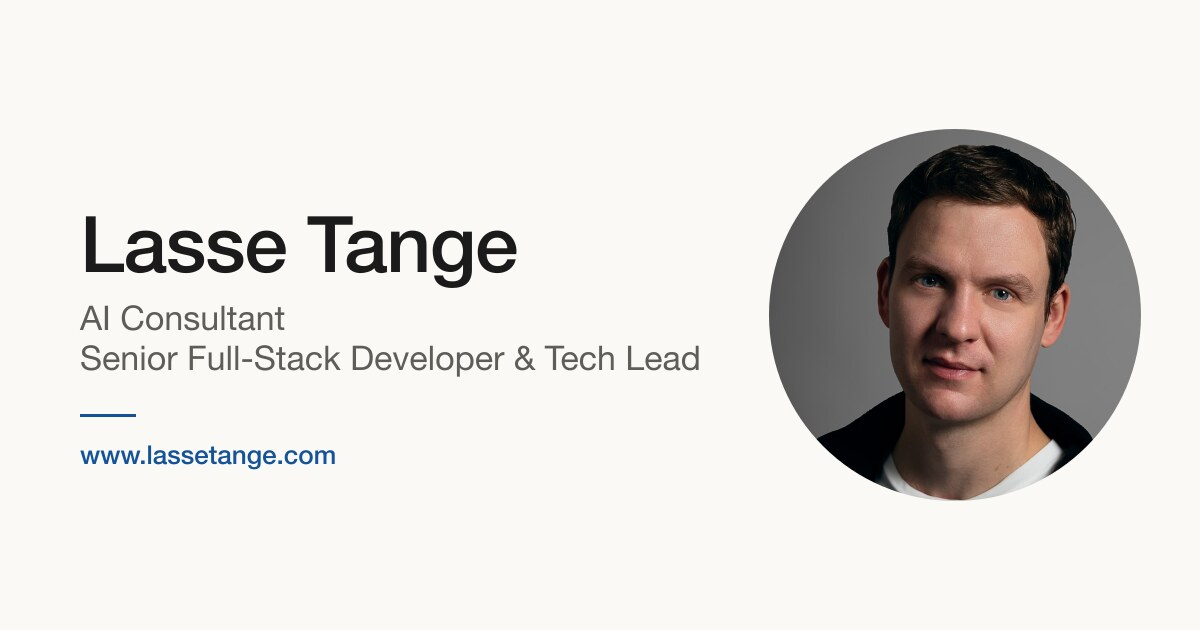
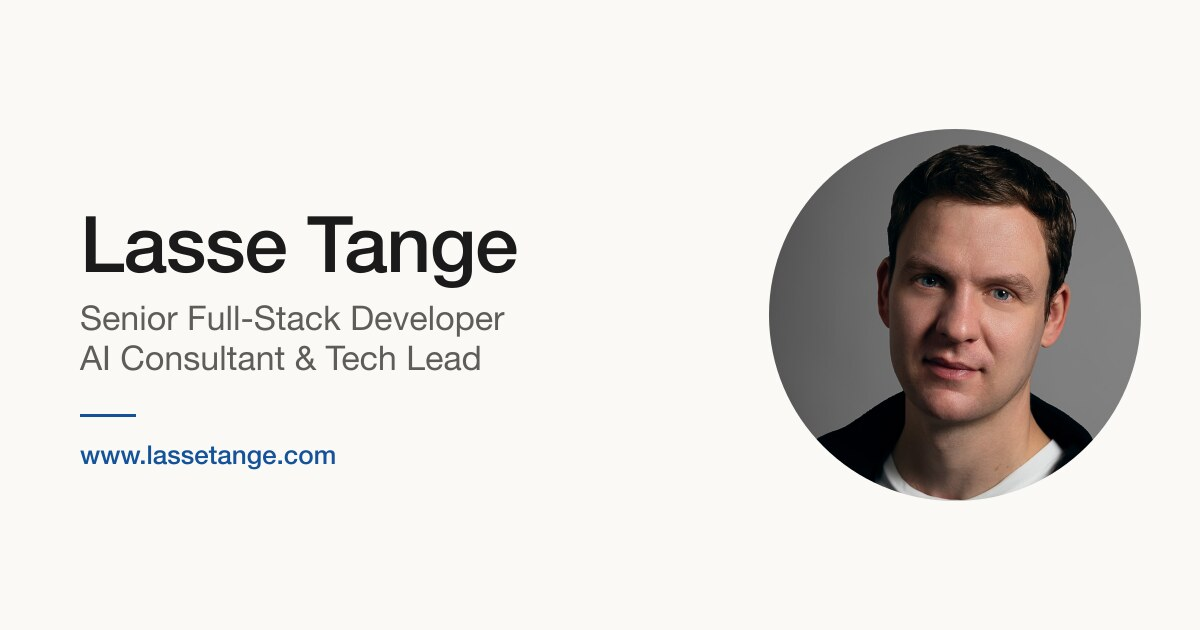
Update english version to be multilingual

Changed region(s): [[0.0617, 0.4825, 0.5858, 0.6032]]

diff --git a/src/components/technologies.tsx b/src/components/technologies.tsx
@@ -6,9 +6,8 @@ import { Layout } from './layout';
 import { LEAD, PAGE_TITLE, Prose, TechList } from './ui';
 
 /**
- * Seven groups, each a markdown list. There is no structured data behind this page: the group names
- * and half the entries are phrases rather than product names, so the whole thing translates, and the
- * markdown file is the single source for it.
+ * Technology groups, each a markdown list. The group names and entries mix practices with product
+ * names, so the translated markdown file is the single source for the page.
  */
 export default function Technologies({ url }: PageProps) {
   const locale = localeFromPath(url.pathname);

diff --git a/src/content/en/home.md b/src/content/en/home.md
@@ -1,39 +1,21 @@
 ---
 title: Lasse Tange
-tagline: AI Consultant, Senior Full-Stack Developer & Tech Lead
-description: AI consultant, full-stack developer and tech lead in Copenhagen. 15+ years of experience with AI, web, mobile, cloud and DevOps.
+tagline: Senior Full-Stack Developer, AI Consultant & Tech Lead
+description: Full-stack developer and tech lead in Copenhagen with 15+ years building software, specialising in applied AI, web, mobile and desktop apps.
 ---
 
-I have spent 15 years building [AI, web and mobile applications](/resume), most of that time inside international startups and public institutions in Berlin and Copenhagen.
+I build software across the stack, from the first architectural decisions to reliable applications that can be maintained and improved over time.
 
 ## About me {#about}
 
-I have worked in many industries and with many technologies. Today I focus on three things: applied AI, full-stack development and operations.
+I have 15+ years of experience building software, much of it with startups and public institutions in Copenhagen and Berlin. I architect, build, maintain and optimise web, mobile and desktop apps — including API, webhook and payment integrations, and UX work on user flows and layouts rather than visual design.
 
-### AI consultant
+I help companies integrate AI into existing processes and build new AI-powered services. I built [SQLAI.ai](/resume#sqlai), which has more than 150,000 users.
 
-I have worked with AI since OpenAI released GPT-3, and among other things I have built [SQLAI.ai](/resume#sqlai), which has more than 150,000 users. As a consultant I help companies work out where AI makes sense — and get the solutions into production: RAG and vector search, agentic workflows, prompt design, AI harnesses, model evaluation and more.
+I set up tests, CI/CD, environments and logging to keep applications running reliably. I also lead development teams, guiding technical decisions, reviewing code and mentoring developers.
 
-### Senior full-stack developer
-
-As a senior full-stack developer I plan, architect and build web and mobile applications end to end, primarily in TypeScript/Node.js. I am equally at home on the frontend and the backend, working with a wide range of [technologies and languages](/technologies). I have also been the tech lead on several engagements, responsible for direction, architecture and mentoring the team.
-
-### DevOps, cloud and operations
-
-I also put the applications into production and keep them running: cloud infrastructure (AWS, Cloudflare), Docker, Infrastructure as Code, CI/CD pipelines and testing.
-
-I take on selected freelance and consulting engagements, and I am also open to startup ideas.
-
-[Get in touch](/contact) if that sounds interesting.
+My toolkit includes Node.js and TypeScript, Python, Go, PHP and SQL. I choose [languages and technologies](/technologies) for the problem rather than defining my work by one stack.
 
 ## How I work {#approach}
 
-My approach is:
-
-- **Analytical:** I dig into the problem and the options before committing to a concrete solution.
-- **Result-oriented:** I value trust over control and micromanagement, and a process that is measured by what it delivers.
-- **Quality-driven:** I combine fast, pragmatic problem-solving with software built to last.
-
-### What I'm like
-
-I am social and easy to talk to. I am open and curious, settle quickly into new offices, and enjoy collaborating with people from different backgrounds and skill sets.
+I'm analytical, pragmatic and enjoy working with people from different backgrounds. I take on selected freelance and consulting engagements and am open to startup ideas. [Get in touch](/contact).

diff --git a/src/content/en/technologies.md b/src/content/en/technologies.md
@@ -1,69 +1,49 @@
 ---
 title: Technologies
-description: Full-stack developer with TypeScript and React at the centre: strong skills in cloud, IaC, CI/CD, backend and applied AI.
+description: Technologies for applied AI, web and app development, data and operations across TypeScript, Python, Go, PHP and SQL.
 ---
 
-Below is an overview of the technologies I work with: applied AI as a fixed focal point and a broad stack spanning web and mobile through cloud, IaC and CI/CD.
+Here are some of the technologies I work with.
 
-## AI
+## Applied AI
 
 - LLM APIs (OpenAI, Anthropic)
-- RAG and vector search
-- Embeddings and semantic search
-- Prompt engineering
-- AI-assisted development (Claude Code, Codex CLI)
-- Applied AI product design
-- Agentic AI workflows
+- LangChain, LangGraph and LlamaIndex (Python)
+- RAG, embeddings and vector search
+- Prompt design, agentic workflows and evaluation
+- AI-assisted coding: Claude Code, Codex CLI
 
-## Frontend
+## Web, mobile and desktop
 
-- React and React Native
-- Next.js, Astro and other web frameworks
+- Web: React, Angular, Next.js, Astro
+- Mobile: React Native
+- Desktop: Electron, Tauri
 - Tailwind CSS and design systems
-- State management (Redux, Zustand, Nanostores)
-- SSR, SSG and web performance
-- Accessibility and cross-browser compatibility
-- SEO and web analytics
+- UX, accessibility, performance and SEO
 
 ## Backend and data
 
-- Node.js
-- REST and GraphQL APIs, typesafe end to end
-- PostgreSQL, MySQL and Redis
+- Node.js: Express, Fastify, NestJS, Hono
+- Python: Flask, FastAPI, Django
+- Go: Gin, Echo
+- REST, GraphQL and webhooks
+- PostgreSQL, MySQL, Redis and Elasticsearch
 - Data modelling and ORMs (Prisma, Drizzle)
-- Elasticsearch and search
-- Geospatial data and mapping
-- Payments and integrations (Stripe, Lemon Squeezy)
+- Payments (Stripe, Lemon Squeezy)
 
-## Programming languages
+## Delivery and operations
 
-- TypeScript
-- JavaScript
-- SQL
-- Python
+- AWS, Cloudflare and Vercel
+- Docker, Linux and Nginx
+- Git, CI/CD and GitHub Actions
+- Infrastructure as code and environments
+- Jest, Vitest, Testing Library and Playwright
+- pytest and test-driven development
+- Logging and operations
+
+## Languages and runtimes
+
+- TypeScript, JavaScript and Node.js
+- Python and Go
 - PHP
-
-## Testing and tooling
-
-- Testing (Jest, Testing Library, Playwright)
-- Test-driven development
-- Storybook
-- Monorepos and modern tooling (pnpm, Vite, Rspack)
-- A/B testing and feature flags
-
-## Platform and delivery
-
-- CI/CD (e.g. GitHub Actions)
-- Docker
-- Cloudflare, AWS and Vercel
-- Linux, Nginx and VPS
-- Git
-- Infrastructure as Code (IaC)
-
-## Product and leadership
-
-- Product strategy and digital business
-- Team leadership and mentoring
-- UX research and user testing
-- Domain-driven design
-- Online marketing and growth
+- SQL
